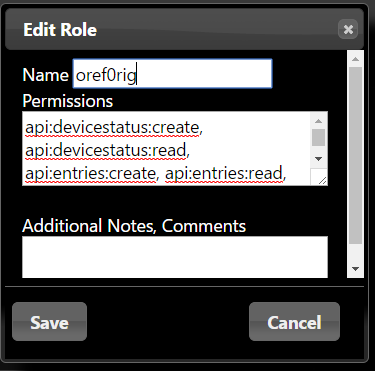
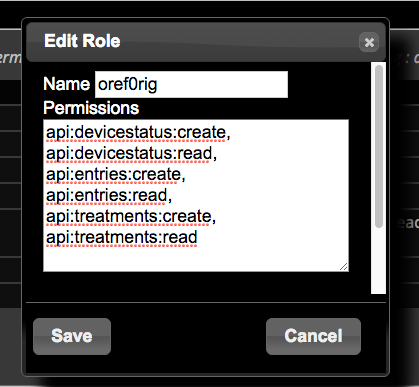
improve formatting of permissions
thanks @betluis

diff --git a/docs/docs/walkthrough/phase-1/nightscout-setup.md b/docs/docs/walkthrough/phase-1/nightscout-setup.md
@@ -260,7 +260,15 @@ Here are the steps you need to follow:
 
     Name: `oref0rig`
 
-    Permissions: `api:devicestatus:create, api:devicestatus:read, api:entries:create, api:entries:read, api:treatments:create, api:treatments:read`
+    Permissions:  Add the following 6 permissions. Note that the default window is to small to fit them all.
+    ```
+    api:devicestatus:create, 
+    api:devicestatus:read, 
+    api:entries:create, 
+    api:entries:read, 
+    api:treatments:create, 
+    api:treatments:read
+    ```
 
     ![AddRole](../phase-1/img/role-oref0rig.png)
 
